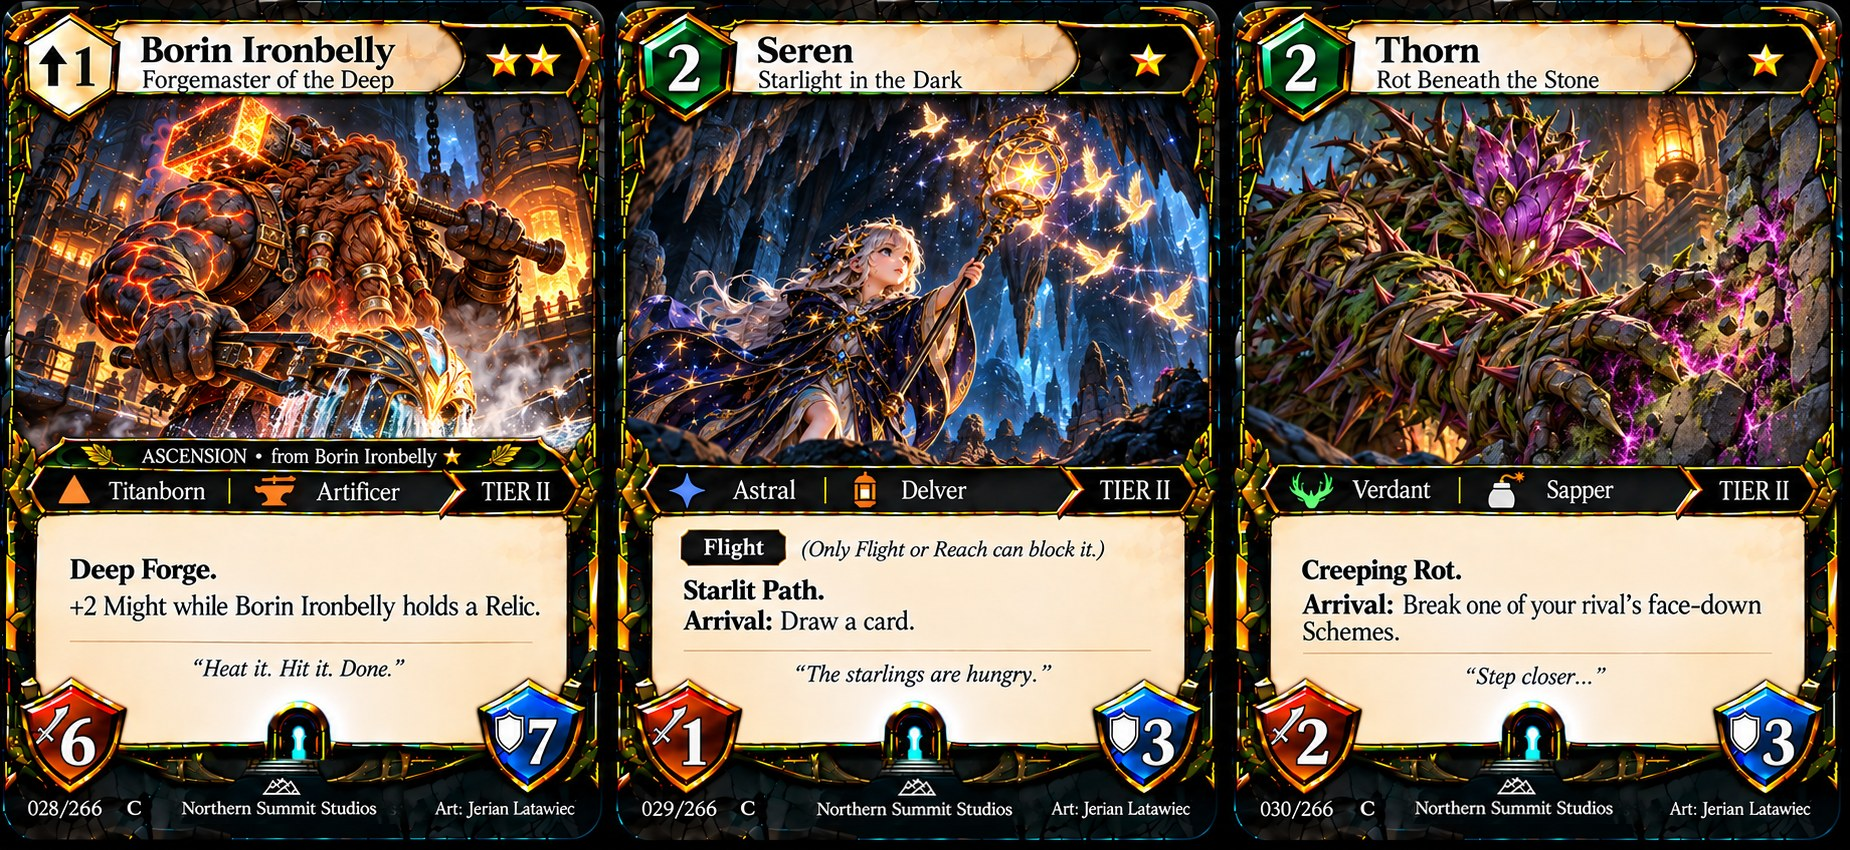
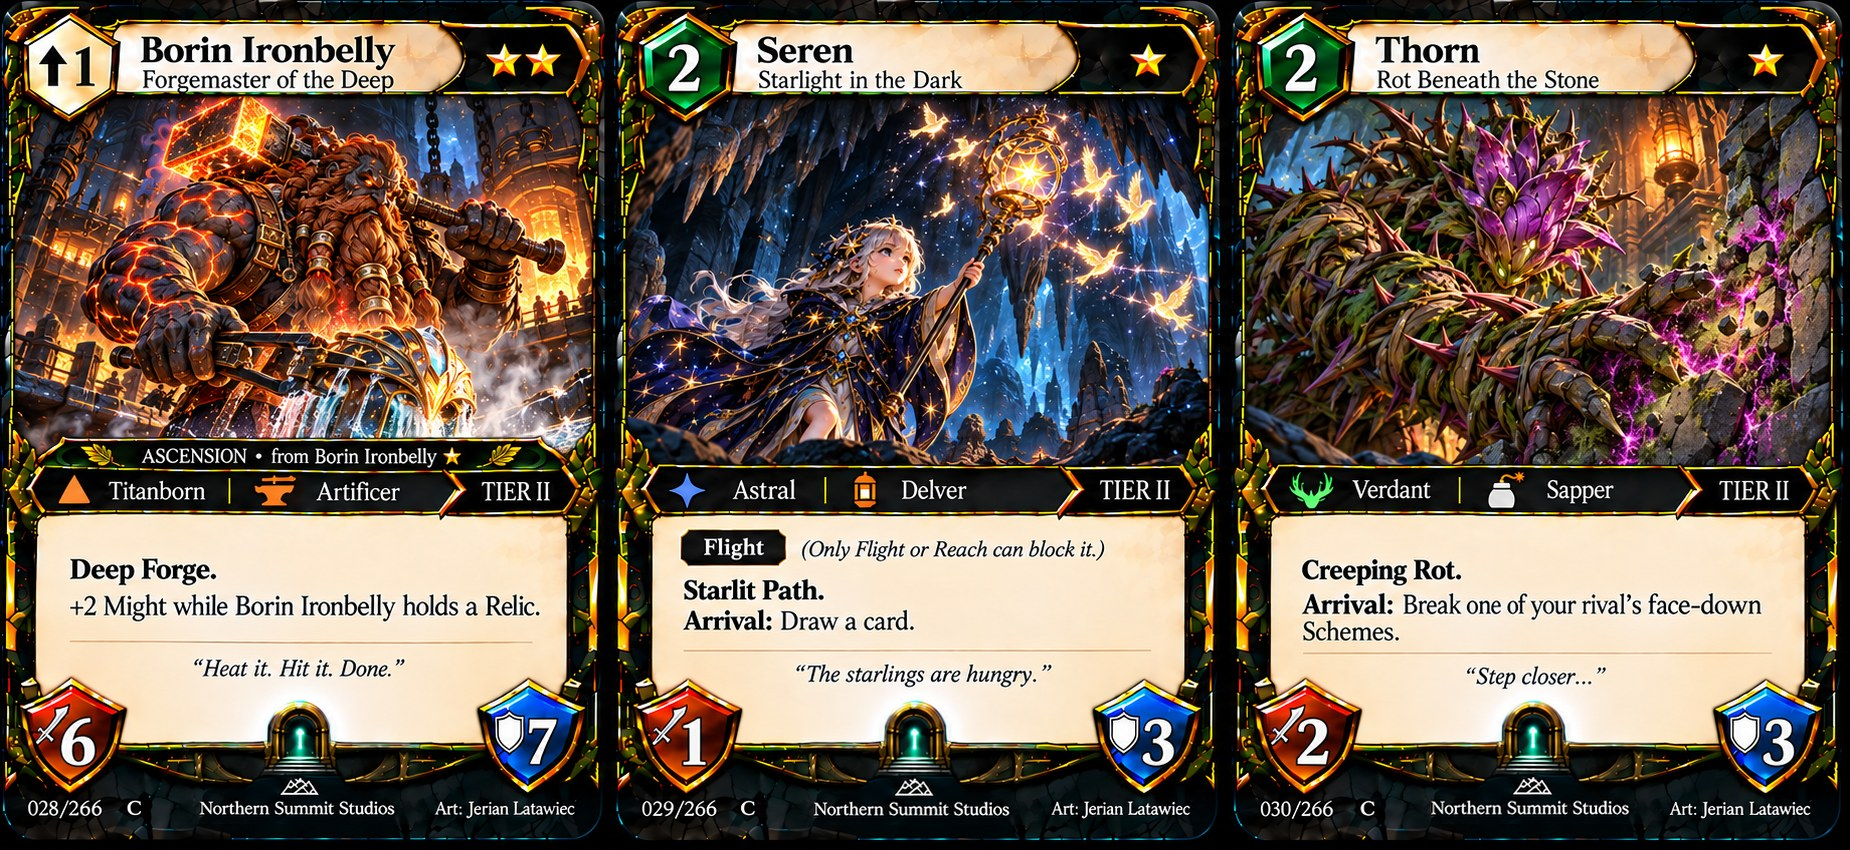
art(set2): emblem locked to the S2-001 block on every card, same spot every time
Reference gateway + mountain + studio name pasted unchanged at card 001's position;
old gateway leftovers painted out with the card's own parchment; a flavour line
that reaches the gateway (031) is lifted into the spare space above it, shields untouched.

Changed region(s): [[0.0924, 0.8259, 0.2465, 0.9788], [0.7395, 0.8259, 0.8935, 0.9788], [0.4314, 0.8259, 0.5546, 0.9788]]

diff --git a/prototype-v0.2/tools/set2-emblem.py b/prototype-v0.2/tools/set2-emblem.py
@@ -12,19 +12,29 @@ from PIL import Image, ImageDraw, ImageFilter
 SET2 = r"C:\Users\micha\Desktop\Crownfall Art\10 Sovereign's Hand\Set 2 - Beneath the Arena"
 ORIGINALS = os.path.join(SET2, "Old", "Card Sheets (original)")
 REF_SHEET = "Cards 001-003 Bramble and Kira Volt.png"
+DEBUG = False
 BOX = (0.29, 0.835, 0.71, 0.985)   # block on a card, as fractions of width / height
 _REF = None
 
 
 def keyhole(a, w, h):
     """Centre of the teal keyhole in the bottom-centre of a card array, or None."""
-    x0, x1, y0 = int(w * 0.38), int(w * 0.62), int(h * 0.82)
-    r, g, b = a[y0:, x0:x1, 0], a[y0:, x0:x1, 1], a[y0:, x0:x1, 2]
+    x0, x1, y0, y1 = int(w * 0.38), int(w * 0.62), int(h * 0.80), int(h * 0.93)  # above the teal frame line at the bottom
+    r, g, b = a[y0:y1, x0:x1, 0], a[y0:y1, x0:x1, 1], a[y0:y1, x0:x1, 2]
     m = (g > 150) & (b > 150) & (r < 130)
     ys, xs = np.where(m)
     if len(xs) < 15:
         return None
-    return (xs.min() + xs.max()) / 2 + x0, (ys.min() + ys.max()) / 2 + y0
+    col = m.sum(axis=0)
+    pk = int(np.argmax(col))
+    lo = pk
+    while lo > 0 and col[lo - 1] >= col[pk] * 0.15:
+        lo -= 1
+    hi = pk
+    while hi < len(col) - 1 and col[hi + 1] >= col[pk] * 0.15:
+        hi += 1
+    sel = (xs >= lo) & (xs <= hi)  # the keyhole itself, not stray teal glints elsewhere on the band
+    return (lo + hi) / 2 + x0, (ys[sel].min() + ys[sel].max()) / 2 + y0
 
 
 def footer_row(a, w, h):
@@ -103,7 +113,94 @@ def _beige(x):
     return (x[..., 0] > 195) & (x[..., 1] > 175) & (x[..., 2] > 130) & (x[..., 0] - x[..., 2] > 25)
 
 
-def stamp_emblem(card):
+
+def _lift_text(arr, w, h, text_bottom, lift):
+    """A flavour line that runs down into the gateway: move the whole text box content up by `lift` px into the
+    spare parchment above it (owner rule: the emblem never changes, and the card text must stay whole)."""
+    beige = _beige(arr)
+    mid = slice(int(w * 0.2), int(w * 0.8))
+    # the box's top edge: walk up a parchment-only strip just inside its left edge (text starts further right)
+    strip = beige[:, int(w * 0.08):int(w * 0.10)].mean(axis=1)
+    r = int(h * 0.78)
+    while r > h * 0.45 and strip[r - 1] > 0.6:
+        r -= 1
+    box_top = r + 1  # first parchment row of the text box
+    ink = (arr[:, int(w * 0.12):int(w * 0.88)].mean(axis=2) < 140).sum(axis=1) >= 3
+    box_top += 3  # skip the box's own shaded rim
+    content = [y for y in range(box_top, text_bottom + 1) if ink[y]]
+    if not content:
+        return None
+    # text lines = runs of ink rows; take the room from the gaps between them (each gap keeps at least 4 px)
+    segs, start = [], content[0]
+    for y0_, y1_ in zip(content, content[1:] + [None]):
+        if y1_ is None or y1_ - y0_ > 2:
+            segs.append((start, y0_ + 1))
+            start = y1_
+    gaps = [(segs[i][1], segs[i + 1][0]) for i in range(len(segs) - 1)]
+    room = [max(0, g1 - g0 - 3) for g0, g1 in gaps] + [0]
+    room[-1] = max(0, segs[0][0] - box_top - 2)  # and a little from the top margin
+    if DEBUG:
+        print("lift", lift, "segments", len(segs), "room", sum(room))
+    if sum(room) < lift:
+        return None
+    # rows to drop: spread over the gaps (middle rows of each gap) and the top margin, `lift` in total
+    take = [r_ * lift / sum(room) for r_ in room]
+    counts, acc = [], 0.0
+    for t in take:
+        acc += t
+        counts.append(round(acc) - sum(counts))
+    drop = set()
+    for (g0, g1), n in zip(gaps, counts[:-1]):
+        mid_ = (g0 + g1) // 2
+        drop.update(range(mid_ - n // 2, mid_ - n // 2 + n))
+    drop.update(range(box_top + 1, box_top + 1 + counts[-1]))
+    # every destination row from the box top down takes the next kept source row (parchment and all), so lines move
+    # up together with their own paper; past the text the rows just below follow on. Shield pixels never move.
+    # the Might / Guard shields (saturated red / blue / gold plus their dark rims) are fenced off and never move
+    R, G, B = arr[..., 0], arr[..., 1], arr[..., 2]
+    sat = ((R > 140) & (G < 90) & (B < 90)) | ((B > 150) & (R < 90) & (G < 150))  # red Might / blue Guard shield bodies
+    sat[:int(h * 0.785)] = False  # shields start at ~0.80 h; the gold stars in rules text sit higher
+    sat[:, int(w * 0.30):int(w * 0.70)] = False
+    sat[:, :int(w * 0.08)] = False; sat[:, int(w * 0.92):] = False  # the frame has red gems of its own
+    # the Might / Guard shields: rows from their top down only move between the shields' inner edges
+    near_sh = np.asarray(Image.fromarray((sat * 255).astype("uint8")).filter(ImageFilter.MaxFilter(25))) > 0  # bodies + rims + outline
+    sh_rows = np.where(sat.sum(axis=1) >= 5)[0]  # ignore stray red / blue flecks
+    sh_top = sh_rows.min() - 12 if len(sh_rows) else h  # the gold rim sits above the coloured body
+    lc = np.where(sat[:, :w // 2].sum(axis=0) >= 4)[0]
+    rc = np.where(sat[:, w // 2:].sum(axis=0) >= 4)[0]
+    L = (lc.max() + 14) if len(lc) else int(w * 0.09)
+    R = (w // 2 + rc.min() - 14) if len(rc) else int(w * 0.91)
+    chroma = arr.max(axis=2) - arr.min(axis=2)
+    lettering = ~beige & ~near_sh & (arr.mean(axis=2) < 205)  # letter strokes and the divider, not shields or shading
+    body9 = np.asarray(Image.fromarray((sat * 255).astype("uint8")).filter(ImageFilter.MaxFilter(9))) > 0
+    gold = (R > 160) & (B < 90)
+    divider = ~beige & ~body9 & ~gold & (arr.mean(axis=2) > 90) & (arr.mean(axis=2) < 215) & (chroma < 90)  # the thin flavour divider
+    src_rows = [y for y in range(box_top + 1, text_bottom + lift + 8) if y not in drop]
+    out = arr.copy()
+    for d, sy in zip(range(box_top + 1, text_bottom + 8), src_rows):
+        if sy < sh_top:  # clear of the shields: the whole width of the box moves
+            out[d, int(w * 0.09):int(w * 0.91)] = arr[sy, int(w * 0.09):int(w * 0.91)]
+            continue
+        if d < sh_top:  # above the shields, but the row below reaches them: take what is not shield, paper the rest
+            X = slice(int(w * 0.09), int(w * 0.91))
+            take_ = ~near_sh[sy, X]
+            out[d, X][take_] = arr[sy, X][take_]
+            px = arr[max(0, d - 3):d + 4, X][beige[max(0, d - 3):d + 4, X]]
+            if len(px):
+                paper = np.median(px, axis=0)
+                m_ = ~take_ & (np.abs(arr[d, X] - paper).max(axis=1) > 18)  # letter strokes and their pale halo
+                out[d, X][m_] = paper
+            continue
+        out[d, L:R] = arr[sy, L:R]
+        for x0_, x1_ in ((int(w * 0.09), L), (R, int(w * 0.91))):  # beside the shields: old strokes become paper
+            m_ = lettering[d, x0_:x1_] | divider[d, x0_:x1_]
+            if m_.any():
+                px = arr[max(0, d - 3):d + 4, x0_:x1_][beige[max(0, d - 3):d + 4, x0_:x1_]]
+                if len(px):
+                    out[d, x0_:x1_][m_] = np.median(px, axis=0)
+    return Image.fromarray(out.astype("uint8"))
+
+def stamp_emblem(card, _lifted=False):
     """Card with the reference gateway + mountain + studio name. Flavour text lines on the parchment are kept."""
     im = card.convert("RGB").copy()
     w, h = im.size
@@ -114,7 +211,8 @@ def stamp_emblem(card):
     ref, (rkx, rfy), rw = reference()
     s = w / rw
     blk = ref.resize((round(ref.width * s), round(ref.height * s)), Image.LANCZOS)
-    x = round(k[0] - rkx * s)
+    # same spot on every card: the reference keyhole's position on card 001, whatever this card's old gateway did
+    x = round(w * (rkx + int(rw * BOX[0])) / rw - rkx * s)
     # the studio name sits on the card's own footer line, level with the card number and artist credit
     y = round((fy if fy is not None else h * 0.955) - rfy * s)
     x0, y0 = max(0, x), max(0, y)
@@ -122,7 +220,11 @@ def stamp_emblem(card):
     tgt = arr[y0:y0 + H, x0:x0 + W]
     rb = np.asarray(blk.convert("RGB")).astype(int)[y0 - y:y0 - y + H, x0 - x:x0 - x + W]
     tb, rbg = _beige(tgt), _beige(rb)
-    arch_cols = np.where((~rbg[: int(H * 0.55)]).any(axis=0))[0]
+    ref_np = ~rbg & (np.asarray(blk.split()[-1])[y0 - y:y0 - y + H, x0 - x:x0 - x + W] > 128)
+    span = ref_np.mean(axis=1)
+    top_rows = np.where(span > 0.02)[0]
+    band_row = top_rows[np.argmax(span[top_rows] > 0.6)] if len(top_rows) and (span[top_rows] > 0.6).any() else int(H * 0.55)
+    arch_cols = np.where(ref_np[:max(1, band_row - 3)].any(axis=0))[0]  # the gateway alone, above the wide dark band
     cx0, cx1 = (arch_cols.min(), arch_cols.max()) if len(arch_cols) else (W // 2 - 20, W // 2 + 20)
     arch_top = y0 + int(np.argmax((~rbg[:, cx0:cx1 + 1]).any(axis=1)))  # first row of the reference arch (card coords)
     # lowest flavour-text row: dark ink on parchment across the card, ignoring the gateway columns
@@ -130,20 +232,69 @@ def stamp_emblem(card):
     near_full = np.asarray(Image.fromarray((full_b * 255).astype("uint8")).filter(ImageFilter.MaxFilter(5))) > 0
     ink_full = near_full & ~full_b & (arr.mean(axis=2) < 140)
     gx0, gx1 = x0 + cx0 - 10, x0 + cx1 + 10
-    side = np.concatenate([ink_full[:, int(w * 0.18):max(int(w * 0.18), gx0)], ink_full[:, min(gx1, int(w * 0.82)):int(w * 0.82)]], axis=1)
-    rows = np.where(side[int(h * 0.75):int(h * 0.92)].sum(axis=1) >= 3)[0] + int(h * 0.75)
+    gx0, gx1 = gx0 - int(w * 0.05), gx1 + int(w * 0.05)  # also clear of a wider or off-centre old gateway
+    left = ink_full[:, int(w * 0.24):max(int(w * 0.24), gx0)].sum(axis=1)  # inside the Might / Guard shields
+    right = ink_full[:, min(gx1, int(w * 0.76)):int(w * 0.76)].sum(axis=1)
+    # centred flavour text has ink on both sides of the gateway; an old arch leftover only on one
+    sides = np.concatenate([full_b[:, int(w * 0.24):max(int(w * 0.24), gx0)], full_b[:, min(gx1, int(w * 0.76)):int(w * 0.76)]], axis=1)
+    paper_row = sides.mean(axis=1) > 0.6  # a text line sits on parchment, unlike the edge of the dark band
+    rows = np.where(((left >= 2) & (right >= 2) & paper_row)[int(h * 0.75):int(h * 0.92)])[0] + int(h * 0.75)
     text_bottom = rows.max() if len(rows) else -1
+    if text_bottom >= arch_top - 3 and not _lifted:
+        lifted = _lift_text(arr, w, h, text_bottom, text_bottom - arch_top + 3)
+        if lifted is not None:
+            return stamp_emblem(lifted, _lifted=True)
     a_full = np.asarray(blk.split()[-1]).copy()
-    if text_bottom >= arch_top - 2:
-        # the flavour runs down past the top of the reference arch: keep the card's own gateway, swap the rest
-        cut = round(h * 0.905) - y
-        a_full[:max(0, cut)] = 0
-    else:
-        # parchment is only painted where it covers leftovers of the card's old gateway (no tone boxes elsewhere)
-        keep = ~rbg | ~tb
-        keep = np.asarray(Image.fromarray((keep * 255).astype("uint8")).filter(ImageFilter.MaxFilter(5))) > 0
-        sub = a_full[y0 - y:y0 - y + H, x0 - x:x0 - x + W]
-        sub[~keep] = 0
+    # the reference gateway, mountain and studio name always go on, unchanged (owner rule 2026-10-15: "on all cards, no changes").
+    # Only the reference's own gateway / dark band / logo / name are pasted (never its parchment, so no tone boxes).
+    # Leftovers of the card's old gateway around it are first painted out with the card's OWN parchment, row by row.
+    sub = a_full[y0 - y:y0 - y + H, x0 - x:x0 - x + W]
+    sub[rbg] = 0
+    cover = np.zeros((h, w), bool)
+    cover[y0:y0 + H, x0:x0 + W] = sub > 128
+    wx0, wx1 = int(w * 0.34), int(w * 0.66)
+    textrows = np.zeros(h, bool)
+    for r in rows:
+        textrows[max(0, r - 3):r + 4] = True
+    # The card's old gateway = the non-parchment blob grown upward from the dark band around the card's keyhole.
+    # Flavour-text rows (ink on both sides, beyond the gateway zone) are never touched; the blob, minus whatever the
+    # new gateway covers, is repainted flat with the card's own parchment colour for that row.
+    nk = x + rkx * s
+    zx0, zx1 = max(0, int(min(k[0], nk) - w * 0.13)), min(w, int(max(k[0], nk) + w * 0.13))
+    band_y = y0 + band_row
+    ink_l = ink_full[:, int(w * 0.10):max(int(w * 0.10), int(min(k[0], nk) - w * 0.075))].any(axis=1)
+    ink_r = ink_full[:, min(w, int(max(k[0], nk) + w * 0.075)):int(w * 0.90)].any(axis=1)
+    trow = ink_l & ink_r
+    trow = np.convolve(trow.astype(int), np.ones(7, int), "same") > 0  # a little margin above and below each line
+    zone = np.zeros((h, w), bool)
+    zone[int(h * 0.78):band_y + 3, zx0:zx1] = True
+    zone[trow] = False
+    blob = zone & ~full_b
+    grow = np.zeros((h, w), bool)
+    grow[band_y:band_y + 3, zx0:zx1] = True
+    for _ in range(150):
+        nxt = (np.asarray(Image.fromarray((grow * 255).astype("uint8")).filter(ImageFilter.MaxFilter(3))) > 0) & (blob | grow)
+        if (nxt == grow).all():
+            break
+        grow = nxt
+    fill = grow & zone
+    fill = (np.asarray(Image.fromarray((fill * 255).astype("uint8")).filter(ImageFilter.MaxFilter(5))) > 0) & zone & ~cover
+    if DEBUG:
+        ys, xs = np.where(fill); print("fill", (xs.min(), xs.max(), ys.min(), ys.max()) if len(xs) else None)
+    if fill.any():
+        out = arr.astype(float)
+        sx0, sx1 = max(0, zx0 - int(w * 0.10)), min(w, zx1 + int(w * 0.10))
+        for r in np.where(fill.any(axis=1))[0]:
+            seg = np.r_[sx0:zx0, zx1:sx1]
+            lo, hi = max(0, r - 2), r + 3
+            px = arr[lo:hi][:, seg][full_b[lo:hi][:, seg]]
+            if len(px):
+                out[r, fill[r]] = np.median(px, axis=0)
+        feather = np.asarray(Image.fromarray((fill * 255).astype("uint8")).filter(ImageFilter.GaussianBlur(1.5))).astype(float)[..., None] / 255
+        feather = np.maximum(feather, fill[..., None].astype(float))
+        feather[trow] = 0
+        out = arr * (1 - feather) + out * feather
+        im = Image.fromarray(out.astype("uint8"))
     a_full = np.asarray(Image.fromarray(a_full.astype("uint8")).filter(ImageFilter.GaussianBlur(1.2))).copy()
     cl = credit_left(arr, w, h, fy)
     fade = np.clip((cl - 3 - (np.arange(a_full.shape[1]) + x)) / 6.0, 0, 1)  # never paint over the artist credit
